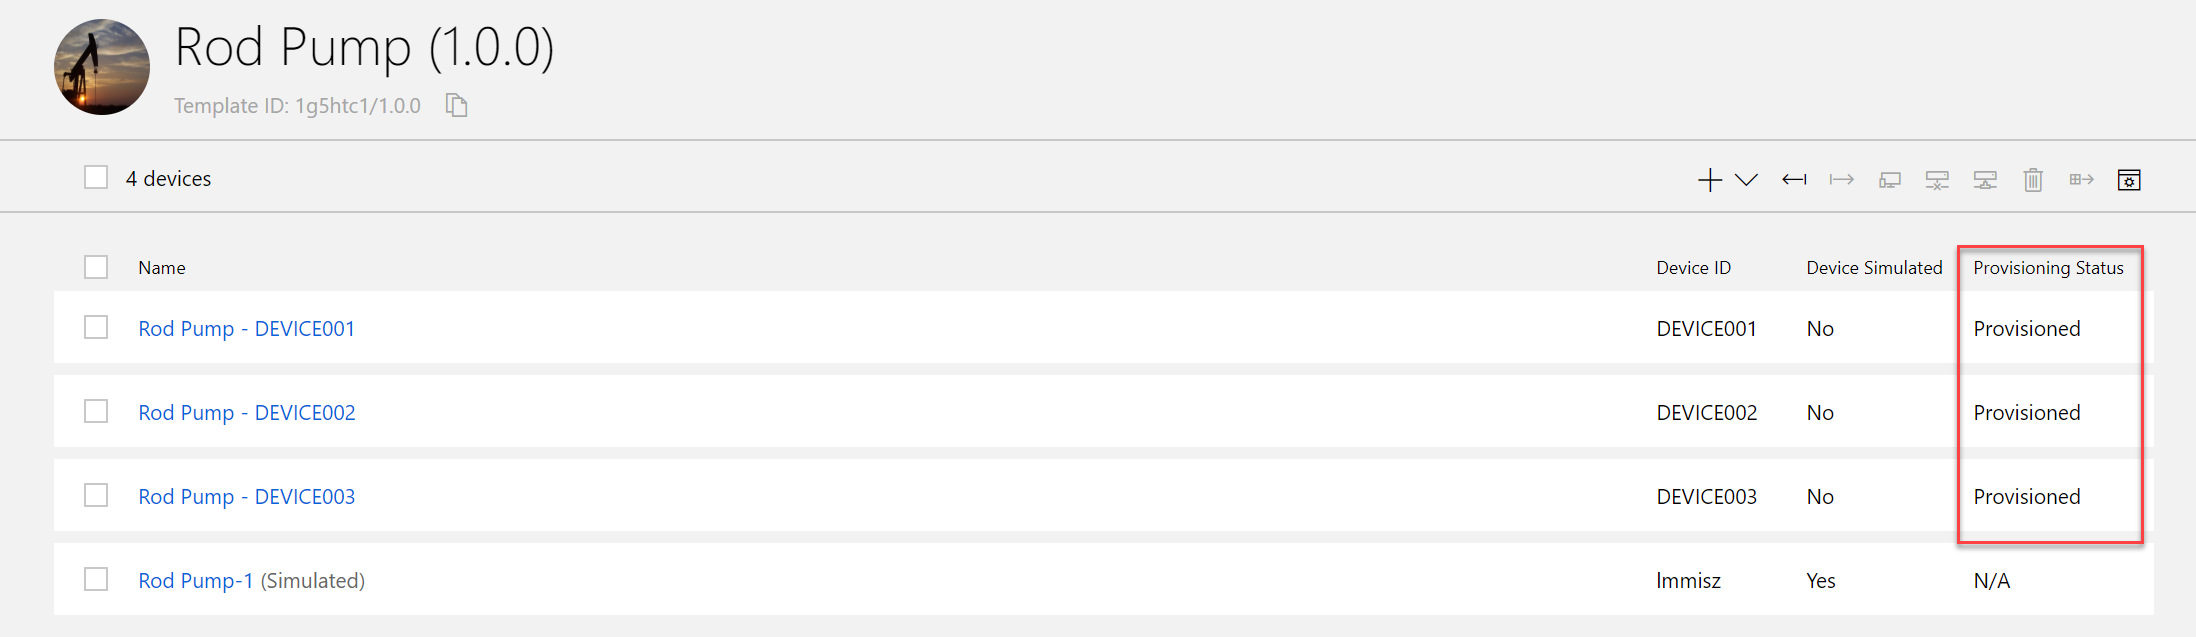
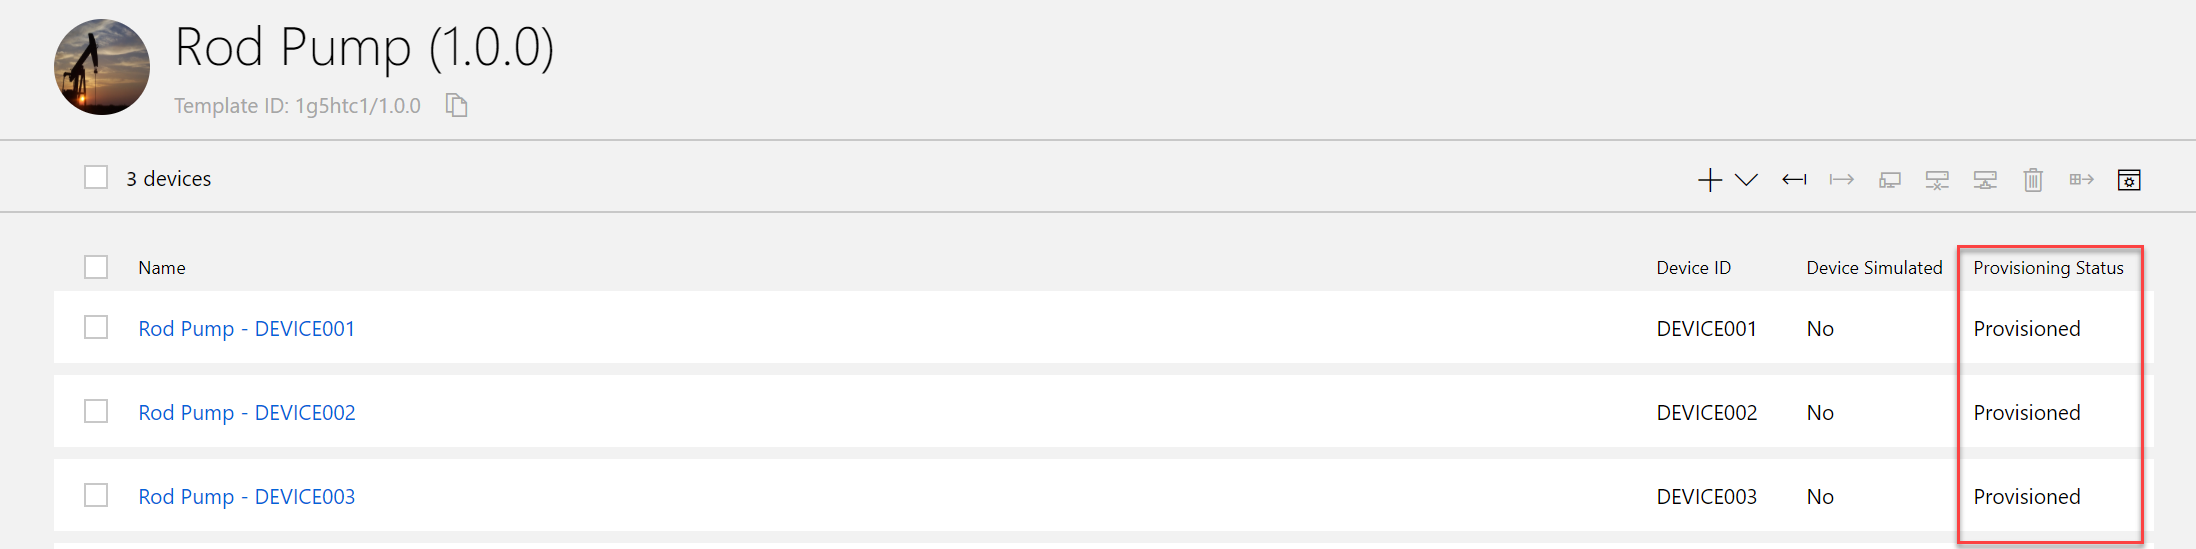
added the full Azure Function implementation, modified lab to add queue to Storage Account used to trigger Flow. Added Flow for the predictive maintenance notification, added steps for the deletion of the simulated device.

diff --git a/Hands-on lab/Resources/FailurePredictionFunction/PumpFailurePrediction.cs b/Hands-on lab/Resources/FailurePredictionFunction/PumpFailurePrediction.cs
@@ -2,29 +2,77 @@ using System;
 using System.Collections.Generic;
 using System.Linq;
 using System.Text;
-using System.Threading.Tasks;
 using Microsoft.Azure.EventHubs;
 using Microsoft.Azure.WebJobs;
 using Microsoft.Extensions.Logging;
+using Microsoft.WindowsAzure.Storage;
+using RestSharp;
+using Microsoft.WindowsAzure.Storage.Table;
+using System.Threading.Tasks;
+using Newtonsoft.Json;
+using Microsoft.WindowsAzure.Storage.Queue;
 
 namespace Fabrikam.Oil.Pumps
 {
     public static class PumpFailurePrediction
     {
         [FunctionName("PumpFailurePrediction")]
-        public static async Task Run([EventHubTrigger("iot-central-feed", Connection = "fabrikam-oil_RootManageSharedAccessKey_EVENTHUB")] EventData[] events, ILogger log)
+        public static async Task Run([EventHubTrigger("iot-central-feed", Connection = "fabrikam-oil_RootManageSharedAccessKey_EVENTHUB", 
+                                ConsumerGroup = "ingressprocessing")] EventData[] events, ILogger log)
         {
             var exceptions = new List<Exception>();
-
+            var randomGenerator = new Random();
             foreach (EventData eventData in events)
             {
                 try
                 {
-                    string messageBody = Encoding.UTF8.GetString(eventData.Body.Array, eventData.Body.Offset, eventData.Body.Count);
+                    //deserialize message body into the Telemetry object
+                    var telemetry = JsonConvert.DeserializeObject<Telemetry>(
+                                Encoding.UTF8.GetString(eventData.Body.Array, eventData.Body.Offset, eventData.Body.Count));
+                    var deviceId = (string)eventData.SystemProperties["iothub-connection-device-id"];                     
 
-                    // Replace these two lines with your processing logic.
-                    log.LogInformation($"C# Event Hub trigger function processed a message: {messageBody}");
-                    await Task.Yield();
+                    var restClient = new RestClient(Environment.GetEnvironmentVariable("PredictionModelEndpoint"));
+                    //temp - path 1 returns 1, path 0 returns 0
+                    var path = randomGenerator.Next(0,2);
+                    var modelRequest = new RestRequest(path.ToString());
+                    modelRequest.AddJsonBody(telemetry);
+                    var modelResult = restClient.ExecuteAsPost<int>(modelRequest,"POST");
+                    if(modelResult.Content == "1") 
+                    {
+                        // impending failure detected from model - send notification 
+
+                        //check when the device had its last notification   
+                        var cloudStorageAccount =  CloudStorageAccount.Parse(Environment.GetEnvironmentVariable("AzureWebJobsStorage"));                    
+                        var table = cloudStorageAccount.CreateCloudTableClient().GetTableReference("DeviceNotifications");
+
+                        var retrieveEntityOp = TableOperation.Retrieve<DeviceNotification>("Devices", deviceId);
+                        var entity = (DeviceNotification)(await table.ExecuteAsync(retrieveEntityOp)).Result;
+                        bool isNewEntity = false;
+                        if(entity == null) 
+                        {
+                            isNewEntity = true;
+                            entity = new DeviceNotification(deviceId);
+                            entity.LastNotificationUtc = DateTime.UtcNow;
+                        }
+
+                        var timeSpan = DateTime.UtcNow - entity.LastNotificationUtc;
+                        if(isNewEntity || timeSpan.Hours > 24)
+                        {
+                            //if it has been greater than 24 hours - update the notification timestamp
+                            entity.LastNotificationUtc = DateTime.UtcNow;
+                            var replaceEntityOp = TableOperation.InsertOrReplace(entity);
+                            await table.ExecuteAsync(replaceEntityOp);
+
+                            //notify workforce via Microsoft Flow triggered by queue entry
+                            var queue = cloudStorageAccount.CreateCloudQueueClient().GetQueueReference("flownotificationqueue");
+                            StringBuilder message = new StringBuilder(deviceId +" has been flagged as requiring maintenance by the ");
+                                    message.Append("predictive maintenance system. ");
+                                    message.Append("Please visit this pump and return it to normal operating parameters.");
+                            var queueMessage = new CloudQueueMessage(message.ToString());
+                            await queue.AddMessageAsync(queueMessage);
+                            log.LogInformation($"Notification email for {deviceId} queued for delivery");
+                        }
+                    }                    
                 }
                 catch (Exception e)
                 {
@@ -34,7 +82,8 @@ namespace Fabrikam.Oil.Pumps
                 }
             }
 
-            // Once processing of the batch is complete, if any messages in the batch failed processing throw an exception so that there is a record of the failure.
+            // Once processing of the batch is complete, if any messages in the batch failed processing throw an exception so that 
+            // there is a record of the failure.
 
             if (exceptions.Count > 1)
                 throw new AggregateException(exceptions);

diff --git a/Hands-on lab/Resources/FailurePredictionFunction/Models/DeviceNotification.cs b/Hands-on lab/Resources/FailurePredictionFunction/Models/DeviceNotification.cs
@@ -1,0 +1,21 @@
+using Microsoft.WindowsAzure.Storage.Table;
+using System;
+
+namespace Fabrikam.Oil.Pumps
+{
+    public class DeviceNotification : TableEntity
+    {
+        public DeviceNotification()
+        {
+            this.PartitionKey = "Devices";
+            this.RowKey = "Unknown";
+        }
+        
+        public DeviceNotification(string deviceId)
+        {
+            this.PartitionKey = "Devices";
+            this.RowKey = deviceId;
+        }
+        public DateTime LastNotificationUtc {get;set;}
+    }
+}

diff --git a/Hands-on lab/Resources/FailurePredictionFunction/Models/Telemetry.cs b/Hands-on lab/Resources/FailurePredictionFunction/Models/Telemetry.cs
@@ -1,0 +1,13 @@
+namespace Fabrikam.Oil.Pumps
+{
+    public class Telemetry 
+    {
+        public double MotorPowerKw { get; set; }
+        public double MotorSpeed { get; set; }
+        public double PumpRate { get; set; }
+        public double TimePumpOn { get; set; }
+        public double CasingFriction { get; set; }
+        public string PowerState {get; set;}
+
+    }
+}

diff --git a/Hands-on lab/HOL step-by step - Predictive Maintenance for Remote Field Devices.md b/Hands-on lab/HOL step-by step - Predictive Maintenance for Remote Field Devices.md
@@ -38,7 +38,8 @@ Microsoft and the trademarks listed at <https://www.microsoft.com/en-us/legal/in
     - [Task 2: Create an IoT Central Application](#task-2-create-an-iot-central-application)
     - [Task 3: Create the Device Template](#task-3-create-the-device-template)
     - [Task 4: Create and provision real devices](#task-4-create-and-provision-real-devices)
-  - [Exercise 2: Running the Rod Pump Simulator](#exercise-2-running-the-rod-pump-simulator)
+  - [Task 5: Delete the simulated device](#task-5-delete-the-simulated-device)
+  - [Exercise 2: Run the Rod Pump Simulator](#exercise-2-run-the-rod-pump-simulator)
     - [Task 1: Generate device connection strings](#task-1-generate-device-connection-strings)
     - [Task 2: Open the Visual Studio solution, and update connection string values](#task-2-open-the-visual-studio-solution-and-update-connection-string-values)
     - [Task 3: Run the application](#task-3-run-the-application)
@@ -58,10 +59,15 @@ Microsoft and the trademarks listed at <https://www.microsoft.com/en-us/legal/in
     - [Task 2: Configure continuous data export from IoT Central](#task-2-configure-continuous-data-export-from-iot-central)
   - [Exercise 7: Create an Azure Function to predict pump failure](#exercise-7-create-an-azure-function-to-predict-pump-failure)
     - [Task 1: Create an Azure Function Application](#task-1-create-an-azure-function-application)
-    - [Task 2: Obtain connection settings for use with the Azure Function implementation](#task-2-obtain-connection-settings-for-use-with-the-azure-function-implementation)
-    - [Task 3: Create the local settings file for the Azure Functions project](#task-3-create-the-local-settings-file-for-the-azure-functions-project)
+    - [Task 2: Create a notification table in Azure Storage](#task-2-create-a-notification-table-in-azure-storage)
+    - [Task 3: Create a notification queue in Azure Storage](#task-3-create-a-notification-queue-in-azure-storage)
+    - [Task 4: Create notification service in Microsoft Flow](#task-4-create-notification-service-in-microsoft-flow)
+    - [Task 5: Obtain connection settings for use with the Azure Function implementation](#task-5-obtain-connection-settings-for-use-with-the-azure-function-implementation)
+    - [Task 6: Create the local settings file for the Azure Functions project](#task-6-create-the-local-settings-file-for-the-azure-functions-project)
+    - [Task 7: Review the Azure Function code](#task-7-review-the-azure-function-code)
+    - [Task 8: Run the Function App locally](#task-8-run-the-function-app-locally)
   - [After the hands-on lab](#after-the-hands-on-lab)
-    - [Task 1: Delete the IoT Central application and Resource Group](#task-1-delete-the-iot-central-application-and-resource-group)
+    - [Task 1: Delete Lab Resources](#task-1-delete-lab-resources)
 
 <!-- /TOC -->
 
@@ -290,8 +296,15 @@ Under the hood, Azure IoT Central uses the [Azure IoT Hub Device Provisioning Se
 
 ![Real Devices Registered](../Media/new-devices-registered.png)
 
+## Task 5: Delete the simulated device
+Now that we have registered real devices, we will no longer be needing the simulated pump that was created for us when we defined our template. 
+
+1. From the Devices list, check the checkbox next to the simulated pump, then press the **Delete** button.
+   
+   ![Delete Simulated Device](../Media/delete-simulated-device.png)
+
                 
-## Exercise 2: Running the Rod Pump Simulator
+## Exercise 2: Run the Rod Pump Simulator
 
 Duration: X minutes
 
@@ -669,7 +682,95 @@ We will be using an Azure Function to read incoming telemetry from IoT Hub and s
 
    ![Create Azure Function App](../Media/create-azure-function-app-form.png)
 
-### Task 2: Obtain connection settings for use with the Azure Function implementation
+### Task 2: Create a notification table in Azure Storage
+One of the things we would like to avoid is sending repeated notifications to the workforce in the field. Notifications should only be sent once every 24 hour period per device. To keep track of when a notification was last sent for a device, we will use a table in a Storage Account.
+
+1. In the [Azure Portal](https://portal.azure.com), select **Resource groups** from the left-hand menu, then click on the **Fabrikam_Oil** link from the listing.
+2. Click on the link for the storage account that was created in Task 1.
+   
+   ![Select the Storage Account](../Media/select-function-storage-account.png)
+
+3. From the Storage Account left-hand menu, select **Tables** from the *Table service* section, then press the **+ Table** button, and create a new table named **DeviceNotifications**.
+   
+   ![Create Table in the Storage Account](../Media/create-storage-table-menu.png)
+
+4. Keep the Storage Account open in your browser for the next task.
+
+### Task 3: Create a notification queue in Azure Storage
+There are many ways to trigger flows in Microsoft Flow. One of them is having Flow monitor an Azure Queue. We will use a Queue in our Azure Storage Account to host this queue.
+
+1. From the Storage Account left-hand menu, select **Queues** located beneath the *Queue service* section, then press the **+ Queue** button, and create a new queue named **flownotificationqueue**
+   
+   ![Create Queue in the Storage Account](../Media/create-storage-queue-menu.png)
+
+2. Obtain the Shared Storage Key for the storage account by selecting **Access keys** located in the *Settings* section in the Azure Storage Account left-hand menu. Copy the *Key* value of *key1* and retain this value, we will be using it later in the next task. Also retain the name of your Storage Account (in the image below, the name of the Storage Account is *pumpfunctions8600*)
+   
+   ![Copy access key for the Storage Account](../Media/copy-function-storage-access-key.png)
+
+### Task 4: Create notification service in Microsoft Flow
+We will be using Microsoft Flow as a means to email the workforce in the field. This flow will respond to new messages placed on the queue that we created in Task 3.
+
+1. Access [Microsoft Flow](https://flow.microsoft.com) and sign in
+2. From the left-hand menu, select **+ Create**, then choose **Instant flow**
+   
+   ![Create Instant Flow](../Media/create-flow-menu.png)
+
+3. When the dialog displays, click the **Skip** link at the bottom to dismiss it
+   
+   ![Dismiss Dialog](../Media/instant-flow-skip-dialog.png)
+
+4. From the search bar, type *queue* to filter connectors and triggers. Then select the **When there are messages in a queue** item from the filtered list of Triggers.
+   
+   ![Select Queue Trigger](../Media/select-flow-trigger-type.png)
+
+5. Fill out the form as follows, then press the **Create** button:
+   
+   | Field                    | Value                                            |
+   |--------------------------|--------------------------------------------------|
+   | Connection Name          | Notification Queue                               |
+   | Storage Account Name     | *enter the generated storage account name*       |
+   | Shared Storage Key       | *paste the Key value recorded in Task 3*         |
+
+   ![Create Queue Step](../Media/create-flow-queue-step.png)
+
+6. In the queue step, select the **flownotificationqueue** item, then press the **+ New step** button
+   
+   ![Select Queue](../Media/create-flow-select-queue.png)
+
+7. In the search box for the next step, search for *email*, then select the **Send an email notification (V3)** item from the filtered list of Actions.
+   
+   ![Create email notification action](../Media/create-flow-email-step.png)
+
+8. You may need to accept the terms and conditions of the SendGrid service, a free service that provides the underlying email capabilities of this email step.
+9. In the Send an email notification (v3) form, fill it out as follows, then press the **+ New Step** button.
+    
+   | Field                    | Value                                                                                |
+   |--------------------------|--------------------------------------------------------------------------------------|
+   | To                       | *enter your email address*                                                           |
+   | Subject                  | Action Required: Pump needs maintenance                                              |
+   | Email Body               | *put cursor in the field, then click **Message Text** from the Dynamic Content menu* |
+
+   ![Email form](../Media/create-flow-email-form.png)
+
+10. In the search bar for the next step, search for *queue* once more, then select the **Delete message** item from the filtered list of Actions.
+    
+    ![Delete queue message step](../Media/create-flow-delete-message-step.png)
+
+11. In the Delete message form, fill it out as follows, then press the **Save** button.
+    
+   | Field                    | Value                                                                                |
+   |--------------------------|--------------------------------------------------------------------------------------|
+   | Queue Name               | flownotificationqueue                                                                |
+   | Message ID               | *put cursor in the field, then click **Message ID** from the Dynamic Content menu*   |
+   | Pop Receipt              | *put cursor in the field, then click **Pop Receipt** from the Dynamic Content menu*  |
+
+   ![Delete queue message form](../Media/create-flow-delete-message-form.png)
+   
+12. Microsoft will automatically name the Flow, you are able to edit this Flow in the future by selecting **My flows** from the left-hand menu
+    
+    ![New Flow created](../Media/new-flow-created.png)
+
+### Task 5: Obtain connection settings for use with the Azure Function implementation
  
 1. Once the Function App has been provisioned, open the **Fabrikam_Oil** resource group and click the link for the Storage Account that was created in the last task.
    
@@ -691,7 +792,7 @@ We will be using an Azure Function to read incoming telemetry from IoT Hub and s
    
    ![Copy the Event Hub Namespace Connection String](../Media/copy-event-hub-namespace-access-key.png)
 
-### Task 3: Create the local settings file for the Azure Functions project
+### Task 6: Create the local settings file for the Azure Functions project
 
 It is recommended that you never check in secrets, such as connection strings, into source control. One way to do this is to use settings files. The values stored in these files mimic environment values used in production. The local settings file is never checked into source control.
 
@@ -704,22 +805,52 @@ It is recommended that you never check in secrets, such as connection strings, i
       "Values": {
         "AzureWebJobsStorage": "<paste storage account connection string>",
         "FUNCTIONS_WORKER_RUNTIME": "dotnet",
-        "fabrikam-oil_RootManageSharedAccessKey_EVENTHUB": "<paste event hub namespace connection string>"
+        "fabrikam-oil_RootManageSharedAccessKey_EVENTHUB": "<paste event hub namespace connection string>",
+        "PredictionModelEndpoint": "<paste prediction model endpoint>"
       }
    }
    ```
 
-3. asdf
+### Task 7: Review the Azure Function code
+1. Observe the static *Run* function, it identifies that the function will run every time the *iot-central-feed* event hub receives a message. It also uses a specific Consumer Group, these are used when there is a possibility that more than one process may be utilizing the data received in the hub. This ensures that dependent processes receive all messages once - thus avoiding any contingency problems. The method receives an array (batch) of events from the hub on each execution, as well as an instance of a logger in case you wish to see values in the console (locally or in the cloud).
+   
+   ```
+   public static async Task Run([EventHubTrigger("iot-central-feed", Connection = "fabrikam-oil_RootManageSharedAccessKey_EVENTHUB", 
+                                ConsumerGroup = "ingressprocessing")] EventData[] events, ILogger log)
+   ```
+
+2.  On line 30, the message body received from the event is deserialized into a Telemetry object - the Telemetry class matches the telemetry sent by the pumps. The Telemetry class can be found in the Models/Telemetry.cs file.
+3.  On line 32, the device id is pulled from the system properties of the event. This will let us know from which device the telemetry data came from.
+4.  TODO UPDATE ONCE FINALIZED: Lines X through X sends the received telemetry to the Prediction Model endpoint. This service will respond with a 1 - meaning the pump requires maintenance, or a 0 meaning no maintenance notifications should be sent.
+5.  TODO UPDATE ONCE FINALIZED: Lines X through X checks Table storage to ensure a notification for the specific device hasn't been sent in the last 24 hours. If a notification is due to be sent, it will update the table storage record with the current timestamp and send a notification by queueing a message onto the *flownotificationqueue* queue.
+
+### Task 8: Run the Function App locally
+1. Press <kbd>Ctrl<kbd>+<kbd>F5<kbd> to run the Azure Function code.
+2. After some time, you should see log statements indicating that a message has been queued (indicating that Microsoft Flow will send a notification email)
+   
+   ![Azure Function Output](../Media/azure-function-output.png)
+
+3. Once a message has been placed on the *flownotificationqueue*, it will trigger the notification flow that we created and send an email to the field workers. These emails are sent in 5 minute intervals.
+   
+   ![Notification email received](../Media/flow-email-receipt.png)
 
 ## After the hands-on lab 
 
 Duration: X minutes
 
-### Task 1: Delete the IoT Central application and Resource Group
+### Task 1: Delete Lab Resources
 
-1.  In IoT Central, select *Administration* from the left-hand menu. In the *Application Settings* screen, delete the application by pressing the *Delete* button. This will automate the removal of the IoT Application as well as all of its resources.
+1. In IoT Central, select *Administration* from the left-hand menu. In the *Application Settings* screen, delete the application by pressing the *Delete* button. This will automate the removal of the IoT Application as well as all of its resources.
    
    ![Delete the IoT Central application](../Media/delete-application.png)
 
 2. In the [Azure Portal](https://portal.azure.com), select **Resource Groups**, open the resource group that you created in Exercise 6, and press the **Delete resource group** button.
+   
    ![Delete the Resource Group](../Media/delete-resource-group.png)
+
+3. Delete Microsoft Flows that we created. Access Microsoft Flow and login. From the left-hand menu, select **My flows**. Click on the ellipsis button next to each flow that we created in this lab and select **Delete**.
+   
+   ![Delete Microsoft Flow processes](../Media/delete-flow.png)
+
+   
+
